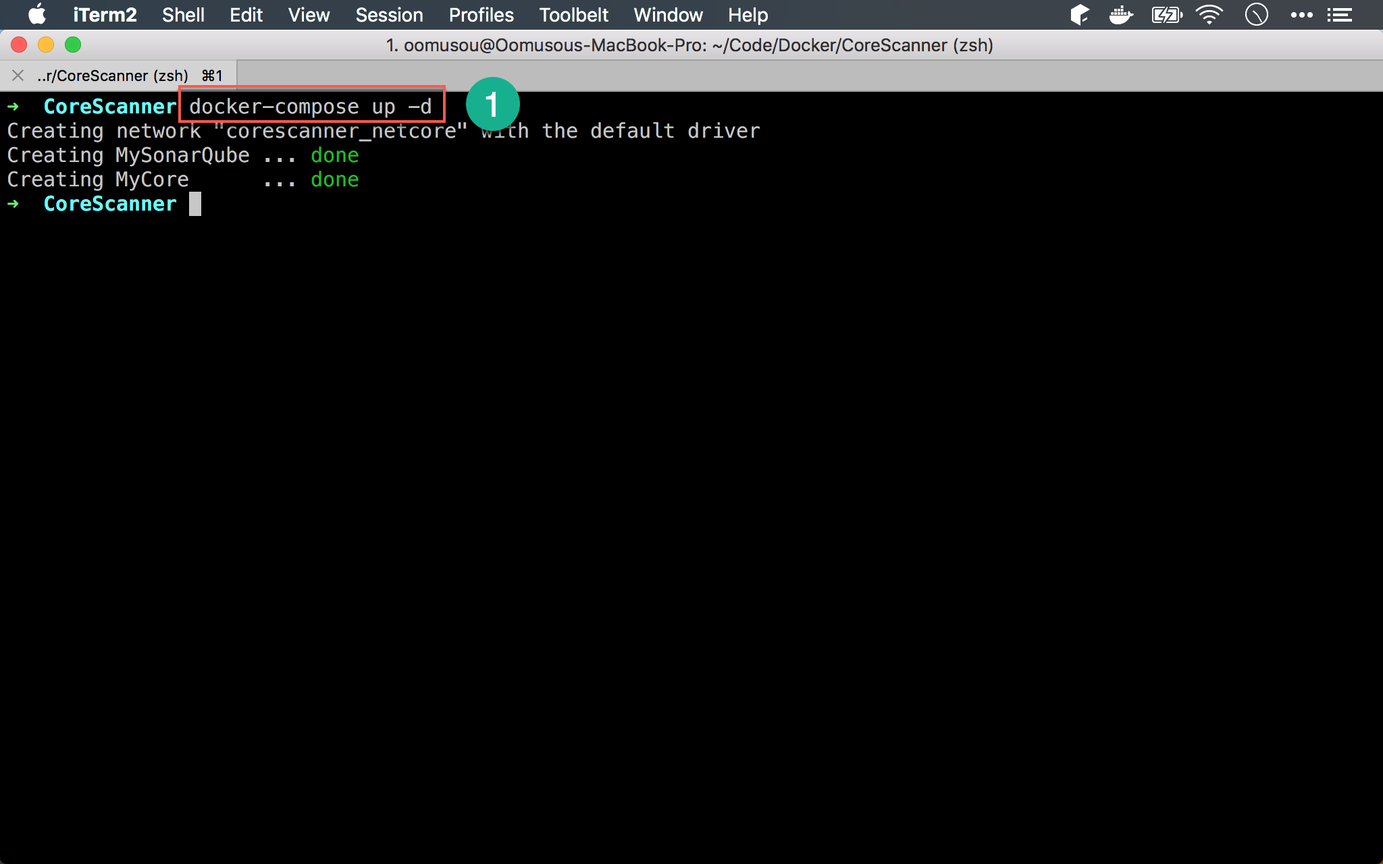
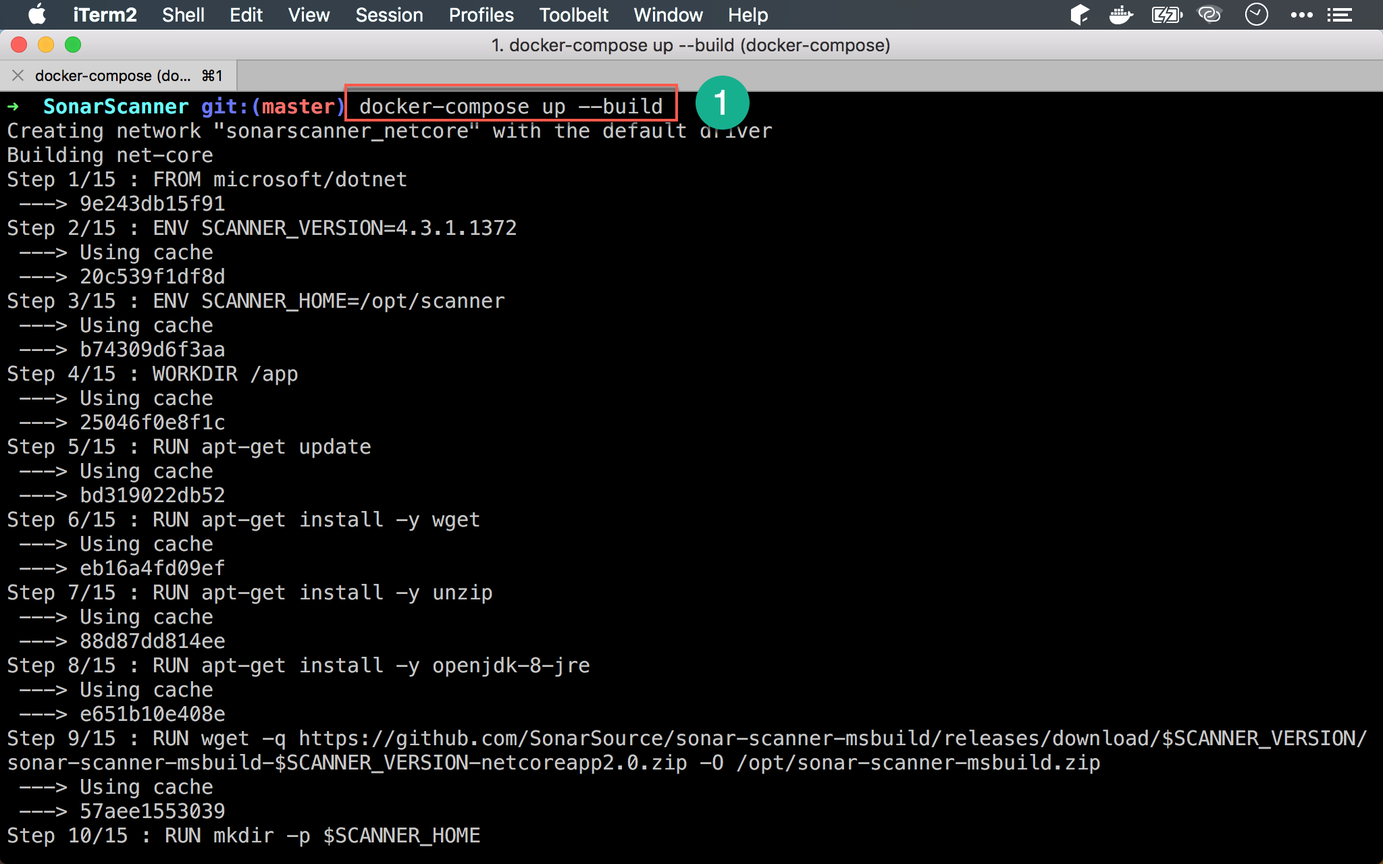
Site updated: 2018-08-01 13:18:26

diff --git a/sonarqube/netcore-docker/index.html b/sonarqube/netcore-docker/index.html
@@ -17,7 +17,7 @@
 <meta property="og:site_name" content="點燈坊">
 <meta property="og:description" content="完全使用 Docker 版本 SonarQube">
 <meta property="og:image" content="https://oomusou.io/images/feature/logo.png">
-<meta property="og:updated_time" content="2018-07-31T15:11:05.060Z">
+<meta property="og:updated_time" content="2018-08-01T05:16:23.885Z">
 <meta name="twitter:card" content="summary">
 <meta name="twitter:title" content="如何使用 SonarQube 檢查 .NET Core 專案 ? (Docker)">
 <meta name="twitter:description" content="完全使用 Docker 版本 SonarQube">
@@ -102,47 +102,56 @@
 	<!-- toc -->
 	<div id="postTOC">
 		<span class="tocHeading">Contents</span>
-		<ol class="toc-article"><li class="toc-article-item toc-article-level-2"><a class="toc-article-link" href="#Version"><span class="toc-article-text">Version</span></a></li><li class="toc-article-item toc-article-level-2"><a class="toc-article-link" href="#Dockerfile"><span class="toc-article-text">Dockerfile</span></a></li><li class="toc-article-item toc-article-level-2"><a class="toc-article-link" href="#Docker-compose-yml"><span class="toc-article-text">Docker-compose.yml</span></a></li><li class="toc-article-item toc-article-level-2"><a class="toc-article-link" href="#-env"><span class="toc-article-text">.env</span></a></li><li class="toc-article-item toc-article-level-2"><a class="toc-article-link" href="#啟動_Container"><span class="toc-article-text">啟動 Container</span></a></li><li class="toc-article-item toc-article-level-2"><a class="toc-article-link" href="#SonarScanner_檢查"><span class="toc-article-text">SonarScanner 檢查</span></a></li><li class="toc-article-item toc-article-level-2"><a class="toc-article-link" href="#結束_Container"><span class="toc-article-text">結束 Container</span></a></li><li class="toc-article-item toc-article-level-2"><a class="toc-article-link" href="#Conclusion"><span class="toc-article-text">Conclusion</span></a></li><li class="toc-article-item toc-article-level-2"><a class="toc-article-link" href="#Sample_Code"><span class="toc-article-text">Sample Code</span></a></li></ol>
+		<ol class="toc-article"><li class="toc-article-item toc-article-level-2"><a class="toc-article-link" href="#Version"><span class="toc-article-text">Version</span></a></li><li class="toc-article-item toc-article-level-2"><a class="toc-article-link" href="#Dockerfile"><span class="toc-article-text">Dockerfile</span></a></li><li class="toc-article-item toc-article-level-2"><a class="toc-article-link" href="#Docker-compose-yml"><span class="toc-article-text">Docker-compose.yml</span></a></li><li class="toc-article-item toc-article-level-2"><a class="toc-article-link" href="#-env"><span class="toc-article-text">.env</span></a></li><li class="toc-article-item toc-article-level-2"><a class="toc-article-link" href="#scanner-sh"><span class="toc-article-text">scanner.sh</span></a></li><li class="toc-article-item toc-article-level-2"><a class="toc-article-link" href="#執行_SonarScanner"><span class="toc-article-text">執行 SonarScanner</span></a></li><li class="toc-article-item toc-article-level-2"><a class="toc-article-link" href="#結束_Container"><span class="toc-article-text">結束 Container</span></a></li><li class="toc-article-item toc-article-level-2"><a class="toc-article-link" href="#Conclusion"><span class="toc-article-text">Conclusion</span></a></li><li class="toc-article-item toc-article-level-2"><a class="toc-article-link" href="#Sample_Code"><span class="toc-article-text">Sample Code</span></a></li></ol>
     </div>
 
 	<!-- content -->
 	<div class="mypage">		
 	    <p>SonarQube 是一套 <code>程式碼品質檢查工具</code>，可以幫我們檢查 C# 的 bugs、 vulenrability、code smell 與 duplication。</p>
-<p>本文使用 Docker-compose.yml，同時啟動 .NET Core 與 SonarQube 兩個 container 對 .NET 專案進行檢查。</p>
+<p>本文使用 Docker-compose.yml，並搭配 Rider 同時啟動 .NET Core 與 SonarQube 兩個 container  ，自動化對 .NET 專案進行檢查。</p>
 <a id="more"></a>
 <h2 id="Version">Version</h2><hr>
-<p>macOS High Sierra 10.13.6<br>Docker for Mac 18.06.0-ce-mac70 (26399)<br>.NET Core 2.1<br>SonarQube 7.1<br>SonarScanner 4.3.1.1372</p>
+<p>macOS High Sierra 10.13.6<br>Docker for Mac 18.06.0-ce-mac70 (26399)<br>.NET Core 2.1<br>SonarQube 7.1<br>SonarScanner 4.3.1.1372<br>Rider 2018.1.3</p>
 <h2 id="Dockerfile">Dockerfile</h2><hr>
-<figure class="highlight dockerfile"><table><tr><td class="gutter"><pre><span class="line">1</span><br><span class="line">2</span><br><span class="line">3</span><br><span class="line">4</span><br><span class="line">5</span><br><span class="line">6</span><br><span class="line">7</span><br><span class="line">8</span><br><span class="line">9</span><br><span class="line">10</span><br><span class="line">11</span><br><span class="line">12</span><br><span class="line">13</span><br><span class="line">14</span><br></pre></td><td class="code"><pre><span class="line"><span class="built_in">FROM</span> microsoft/dotnet</span><br><span class="line"></span><br><span class="line"><span class="built_in">ENV</span> SCANNER_VERSION=<span class="number">4.3</span>.<span class="number">1.1372</span></span><br><span class="line"><span class="built_in">ENV</span> SCANNER_HOME=/opt/scanner</span><br><span class="line"></span><br><span class="line"><span class="built_in">RUN</span> <span class="bash">apt-get update </span><br><span class="line"></span><span class="built_in">RUN</span> <span class="bash">apt-get install -y wget</span><br><span class="line"></span><span class="built_in">RUN</span> <span class="bash">apt-get install -y unzip</span><br><span class="line"></span><span class="built_in">RUN</span> <span class="bash">apt-get install -y openjdk-<span class="number">8</span>-jre</span><br><span class="line"></span><span class="built_in">RUN</span> <span class="bash">wget -q https://github.com/SonarSource/sonar-scanner-msbuild/releases/download/<span class="variable">$SCANNER_VERSION</span>/sonar-scanner-msbuild-<span class="variable">$SCANNER_VERSION</span>-netcoreapp2.<span class="number">0</span>.zip -O /opt/sonar-scanner-msbuild.zip</span><br><span class="line"></span><span class="built_in">RUN</span> <span class="bash">mkdir -p <span class="variable">$SCANNER_HOME</span></span><br><span class="line"></span><span class="built_in">RUN</span> <span class="bash">unzip /opt/sonar-scanner-msbuild.zip <span class="operator">-d</span> <span class="variable">$SCANNER_HOME</span></span><br><span class="line"></span><span class="built_in">RUN</span> <span class="bash">rm /opt/sonar-scanner-msbuild.zip</span><br><span class="line"></span><span class="built_in">RUN</span> <span class="bash">chmod <span class="number">775</span> <span class="variable">$SCANNER_HOME</span>/ -R</span></span><br></pre></td></tr></table></figure>
+<figure class="highlight dockerfile"><table><tr><td class="gutter"><pre><span class="line">1</span><br><span class="line">2</span><br><span class="line">3</span><br><span class="line">4</span><br><span class="line">5</span><br><span class="line">6</span><br><span class="line">7</span><br><span class="line">8</span><br><span class="line">9</span><br><span class="line">10</span><br><span class="line">11</span><br><span class="line">12</span><br><span class="line">13</span><br><span class="line">14</span><br><span class="line">15</span><br><span class="line">16</span><br><span class="line">17</span><br><span class="line">18</span><br><span class="line">19</span><br></pre></td><td class="code"><pre><span class="line"><span class="built_in">FROM</span> microsoft/dotnet</span><br><span class="line"></span><br><span class="line"><span class="built_in">ENV</span> SCANNER_VERSION=<span class="number">4.3</span>.<span class="number">1.1372</span></span><br><span class="line"><span class="built_in">ENV</span> SCANNER_HOME=/opt/scanner</span><br><span class="line"></span><br><span class="line"><span class="built_in">WORKDIR</span> <span class="bash">/app</span><br><span class="line"></span></span><br><span class="line"><span class="built_in">RUN</span> <span class="bash">apt-get update </span><br><span class="line"></span><span class="built_in">RUN</span> <span class="bash">apt-get install -y wget</span><br><span class="line"></span><span class="built_in">RUN</span> <span class="bash">apt-get install -y unzip</span><br><span class="line"></span><span class="built_in">RUN</span> <span class="bash">apt-get install -y openjdk-<span class="number">8</span>-jre</span><br><span class="line"></span><span class="built_in">RUN</span> <span class="bash">wget -q https://github.com/SonarSource/sonar-scanner-msbuild/releases/download/<span class="variable">$SCANNER_VERSION</span>/sonar-scanner-msbuild-<span class="variable">$SCANNER_VERSION</span>-netcoreapp2.<span class="number">0</span>.zip -O /opt/sonar-scanner-msbuild.zip</span><br><span class="line"></span><span class="built_in">RUN</span> <span class="bash">mkdir -p <span class="variable">$SCANNER_HOME</span></span><br><span class="line"></span><span class="built_in">RUN</span> <span class="bash">unzip /opt/sonar-scanner-msbuild.zip <span class="operator">-d</span> <span class="variable">$SCANNER_HOME</span></span><br><span class="line"></span><span class="built_in">RUN</span> <span class="bash">rm /opt/sonar-scanner-msbuild.zip</span><br><span class="line"></span><span class="built_in">RUN</span> <span class="bash">chmod <span class="number">775</span> <span class="variable">$SCANNER_HOME</span>/ -R</span><br><span class="line"></span></span><br><span class="line"><span class="built_in">COPY</span> <span class="bash">./ ./</span><br><span class="line"></span><span class="built_in">ENTRYPOINT</span> <span class="bash">[<span class="string">"./scanner.sh"</span>]</span></span><br></pre></td></tr></table></figure>
 <p>因為要在 .NET Core container 安裝 SonarScanner，所以要對 .NET Core 客製化 image。</p>
 <p>第 1 行</p>
-<figure class="highlight csharp"><table><tr><td class="gutter"><pre><span class="line">1</span><br></pre></td><td class="code"><pre><span class="line">FROM microsoft/dotnet</span><br></pre></td></tr></table></figure>
+<figure class="highlight dockerfile"><table><tr><td class="gutter"><pre><span class="line">1</span><br></pre></td><td class="code"><pre><span class="line"><span class="built_in">FROM</span> microsoft/dotnet</span><br></pre></td></tr></table></figure>
 <p>使用 <code>FROM</code> 設定所使用的基底 image。</p>
 <p>使用 Microsoft 官方的 <code>microsoft/dotnet</code> image。</p>
 <p>第 3 行</p>
-<figure class="highlight csharp"><table><tr><td class="gutter"><pre><span class="line">1</span><br><span class="line">2</span><br></pre></td><td class="code"><pre><span class="line">ENV SCANNER_VERSION=<span class="number">4.3</span><span class="number">.1</span><span class="number">.1372</span></span><br><span class="line">ENV SCANNER_HOME=/opt/scanner</span><br></pre></td></tr></table></figure>
+<figure class="highlight dockerfile"><table><tr><td class="gutter"><pre><span class="line">1</span><br><span class="line">2</span><br></pre></td><td class="code"><pre><span class="line"><span class="built_in">ENV</span> SCANNER_VERSION=<span class="number">4.3</span>.<span class="number">1.1372</span></span><br><span class="line"><span class="built_in">ENV</span> SCANNER_HOME=/opt/scanner</span><br></pre></td></tr></table></figure>
 <p>使用 <code>ENV</code> 設定 Dockerfile 的環境變數。</p>
 <p><code>SCANNER_VERSION</code> : 因為 SonarScanner 的下載路徑，會與版本有關，所以特別設定成變數。</p>
 <p><code>SCANNER_HOME</code> : 設定 SonarScanner 所安裝的目錄。</p>
 <p>第 6 行</p>
-<figure class="highlight csharp"><table><tr><td class="gutter"><pre><span class="line">1</span><br><span class="line">2</span><br><span class="line">3</span><br><span class="line">4</span><br></pre></td><td class="code"><pre><span class="line">RUN apt-<span class="keyword">get</span> update </span><br><span class="line">RUN apt-<span class="keyword">get</span> install -y wget</span><br><span class="line">RUN apt-<span class="keyword">get</span> install -y unzip</span><br><span class="line">RUN apt-<span class="keyword">get</span> install -y openjdk-<span class="number">8</span>-jre</span><br></pre></td></tr></table></figure>
+<figure class="highlight dockerfile"><table><tr><td class="gutter"><pre><span class="line">1</span><br></pre></td><td class="code"><pre><span class="line"><span class="built_in">WORKDIR</span> <span class="bash">/app</span></span><br></pre></td></tr></table></figure>
+<p>設定 container 的工作目錄，也就是預設目錄都會在 <code>/app</code> 下。</p>
+<p>第 8 行</p>
+<figure class="highlight dockerfile"><table><tr><td class="gutter"><pre><span class="line">1</span><br><span class="line">2</span><br><span class="line">3</span><br><span class="line">4</span><br></pre></td><td class="code"><pre><span class="line"><span class="built_in">RUN</span> <span class="bash">apt-get update </span><br><span class="line"></span><span class="built_in">RUN</span> <span class="bash">apt-get install -y wget</span><br><span class="line"></span><span class="built_in">RUN</span> <span class="bash">apt-get install -y unzip</span><br><span class="line"></span><span class="built_in">RUN</span> <span class="bash">apt-get install -y openjdk-<span class="number">8</span>-jre</span></span><br></pre></td></tr></table></figure>
 <p>使用 <code>RUN</code> 執行 CLI 指令。</p>
 <ul>
 <li>使用 <code>wget</code> 下載 SonarScanner</li>
 <li>使用 <code>unzip</code> 對 zip 解壓縮</li>
 <li><code>SonarScanner</code> 會使用 Java 執行，需要安裝 Java Runtime</li>
 </ul>
-<p>第 10 行</p>
-<figure class="highlight csharp"><table><tr><td class="gutter"><pre><span class="line">1</span><br></pre></td><td class="code"><pre><span class="line">RUN wget -q https:<span class="comment">//github.com/SonarSource/sonar-scanner-msbuild/releases/download/$SCANNER_VERSION/sonar-scanner-msbuild-$SCANNER_VERSION-netcoreapp2.0.zip -O /opt/sonar-scanner-msbuild.zip</span></span><br></pre></td></tr></table></figure>
-<p>使用 <code>wget</code> 下載 SonarScanner 壓縮檔，並下載到 <code>/opt</code> 目錄下。</p>
-<p>11 行</p>
-<figure class="highlight csharp"><table><tr><td class="gutter"><pre><span class="line">1</span><br><span class="line">2</span><br><span class="line">3</span><br></pre></td><td class="code"><pre><span class="line">RUN mkdir -p $SCANNER_HOME</span><br><span class="line">RUN unzip /opt/sonar-scanner-msbuild.zip -d $SCANNER_HOME</span><br><span class="line">RUN rm /opt/sonar-scanner-msbuild.zip</span><br></pre></td></tr></table></figure>
-<p>建立 <code>/opt/scanner</code> 目錄，將 SonarScanner 壓縮檔解壓縮放到 <code>/opt/scanner</code> 目錄下，解壓縮完刪除 SonarScanner 壓縮檔。</p>
 <p>12 行</p>
-<figure class="highlight csharp"><table><tr><td class="gutter"><pre><span class="line">1</span><br></pre></td><td class="code"><pre><span class="line">RUN chmod <span class="number">775</span> $SCANNER_HOME/ -R</span><br></pre></td></tr></table></figure>
+<figure class="highlight dockerfile"><table><tr><td class="gutter"><pre><span class="line">1</span><br></pre></td><td class="code"><pre><span class="line"><span class="built_in">RUN</span> <span class="bash">wget -q https://github.com/SonarSource/sonar-scanner-msbuild/releases/download/<span class="variable">$SCANNER_VERSION</span>/sonar-scanner-msbuild-<span class="variable">$SCANNER_VERSION</span>-netcoreapp2.<span class="number">0</span>.zip -O /opt/sonar-scanner-msbuild.zip</span></span><br></pre></td></tr></table></figure>
+<p>使用 <code>wget</code> 下載 SonarScanner 壓縮檔，並下載到 <code>/opt</code> 目錄下。</p>
+<p>13 行</p>
+<figure class="highlight dockerfile"><table><tr><td class="gutter"><pre><span class="line">1</span><br><span class="line">2</span><br><span class="line">3</span><br></pre></td><td class="code"><pre><span class="line"><span class="built_in">RUN</span> <span class="bash">mkdir -p <span class="variable">$SCANNER_HOME</span></span><br><span class="line"></span><span class="built_in">RUN</span> <span class="bash">unzip /opt/sonar-scanner-msbuild.zip <span class="operator">-d</span> <span class="variable">$SCANNER_HOME</span></span><br><span class="line"></span><span class="built_in">RUN</span> <span class="bash">rm /opt/sonar-scanner-msbuild.zip</span></span><br></pre></td></tr></table></figure>
+<p>建立 <code>/opt/scanner</code> 目錄，將 SonarScanner 壓縮檔解壓縮放到 <code>/opt/scanner</code> 目錄下，解壓縮完刪除 SonarScanner 壓縮檔。</p>
+<p>16 行</p>
+<figure class="highlight dockerfile"><table><tr><td class="gutter"><pre><span class="line">1</span><br></pre></td><td class="code"><pre><span class="line"><span class="built_in">RUN</span> <span class="bash">chmod <span class="number">775</span> <span class="variable">$SCANNER_HOME</span>/ -R</span></span><br></pre></td></tr></table></figure>
 <p>將 SonarScanner 目錄所有檔案賦予執行權力。</p>
+<p>18 行</p>
+<figure class="highlight dockerfile"><table><tr><td class="gutter"><pre><span class="line">1</span><br></pre></td><td class="code"><pre><span class="line"><span class="built_in">COPY</span> <span class="bash">./ ./</span></span><br></pre></td></tr></table></figure>
+<p>將目前 solution 下所有檔案複製到 container 內，也就是 <code>/app</code> 目錄下。</p>
+<p>19 行</p>
+<figure class="highlight dockerfile"><table><tr><td class="gutter"><pre><span class="line">1</span><br></pre></td><td class="code"><pre><span class="line"><span class="built_in">ENTRYPOINT</span> <span class="bash">[<span class="string">"./scanner.sh"</span>]</span></span><br></pre></td></tr></table></figure>
+<p>最後會執行專案目錄下的 <code>./scanner.sh</code>，負責執行 SonarScanner 檢查。</p>
 <h2 id="Docker-compose-yml">Docker-compose.yml</h2><hr>
-<figure class="highlight"><table><tr><td class="gutter"><pre><span class="line">1</span><br></pre></td><td class="code"><pre><span class="line">version: &#34;3&#34;&#10;&#10;services:&#10;  net-core:&#10;    build: .&#10;    container_name: MyCore&#10;    volumes:&#10;      - &#34;$&#123;HOST_DIR&#125;:/code/&#34;&#10;    tty: true&#10;    networks:&#10;      - netcore&#10;&#10;  sonarqube:&#10;    image: sonarqube:latest&#10;    container_name: MySonarQube&#10;    ports:&#10;      - 9000:9000&#10;      - 9002:9002&#10;    networks:&#10;      netcore:&#10;        ipv4_address: 172.16.238.10&#10;     &#10;networks:&#10;  netcore:&#10;    ipam: &#10;      driver: default&#10;      config:&#10;        - subnet: 172.16.238.0/24</span><br></pre></td></tr></table></figure>
+<figure class="highlight"><table><tr><td class="gutter"><pre><span class="line">1</span><br></pre></td><td class="code"><pre><span class="line">version: &#34;3&#34;&#10;&#10;services:&#10;  net-core:&#10;    build: .&#10;    container_name: MyCore&#10;    volumes:&#10;      - &#34;$&#123;HOST_DIR&#125;:/code/&#34;&#10;    networks:&#10;      - netcore&#10;    depends_on:&#10;      - sonarqube&#10;&#10;  sonarqube:&#10;    image: sonarqube:latest&#10;    container_name: MySonarQube&#10;    ports:&#10;      - 9000:9000&#10;      - 9002:9002&#10;    networks:&#10;      netcore:&#10;        ipv4_address: 172.16.238.10&#10;     &#10;networks:&#10;  netcore:&#10;    ipam: &#10;      driver: default&#10;      config:&#10;        - subnet: 172.16.238.0/24</span><br></pre></td></tr></table></figure>
 <p>設定 .NET Core 與 SonarQube 兩個 container 同時啟動。</p>
 <p>第 4 行</p>
 <figure class="highlight"><table><tr><td class="gutter"><pre><span class="line">1</span><br></pre></td><td class="code"><pre><span class="line">net-core:&#10;    build: .</span><br></pre></td></tr></table></figure>
@@ -155,41 +164,43 @@
 <p>使用 <code>volumes</code> 設定 host 與 container 的共用目錄，<code>:</code> 左方為 host 目錄，右方為 container 目錄。</p>
 <p>目的是能在 .NET Core container 內抓到 host 的 project。</p>
 <p>第 9 行</p>
-<figure class="highlight"><table><tr><td class="gutter"><pre><span class="line">1</span><br></pre></td><td class="code"><pre><span class="line">tty: true</span><br></pre></td></tr></table></figure>
-<p>使用 <code>tty</code> 讓 .NET Core container 在啟動後不會立即結束，可以維持在背景。</p>
-<p>第 10 行</p>
 <figure class="highlight"><table><tr><td class="gutter"><pre><span class="line">1</span><br></pre></td><td class="code"><pre><span class="line">networks:&#10;  - netcore</span><br></pre></td></tr></table></figure>
 <p>使用 <code>networks</code> 設定 .NET Core 與 SonarQube 共用 <code>netcore</code> 內部網路。</p>
-<p>13 行</p>
+<p>11 行</p>
+<figure class="highlight"><table><tr><td class="gutter"><pre><span class="line">1</span><br></pre></td><td class="code"><pre><span class="line">depends_on:&#10;      - sonarqube</span><br></pre></td></tr></table></figure>
+<p>.NET Core container 相依於 SonarQube container。</p>
+<p>14 行</p>
 <figure class="highlight"><table><tr><td class="gutter"><pre><span class="line">1</span><br></pre></td><td class="code"><pre><span class="line">sonarqube:&#10;  image: sonarqube:latest</span><br></pre></td></tr></table></figure>
 <p>使用 <code>image</code> 設定 container 所使用的 image。</p>
-<p>15 行</p>
+<p>16 行</p>
 <figure class="highlight"><table><tr><td class="gutter"><pre><span class="line">1</span><br></pre></td><td class="code"><pre><span class="line">container_name: MySonarQube</span><br></pre></td></tr></table></figure>
 <p>使用 <code>container_name</code> 設定 SonarQube 的 container 名稱。</p>
-<p>16 行</p>
+<p>17 行</p>
 <figure class="highlight"><table><tr><td class="gutter"><pre><span class="line">1</span><br></pre></td><td class="code"><pre><span class="line">ports:&#10;  - 9000:9000&#10;  - 9002:9002</span><br></pre></td></tr></table></figure>
 <p>使用 <code>ports</code> 設定 host 與 container 所 mapping 的 port，<code>:</code> 左側為 host port，右側為 container port。</p>
 <p>為了能在 host 以瀏覽器連上 SonarQube，要將 host 的 9000 與 9002 兩個 port 給 host。</p>
-<p>19 行</p>
+<p>20 行</p>
 <figure class="highlight"><table><tr><td class="gutter"><pre><span class="line">1</span><br></pre></td><td class="code"><pre><span class="line">networks:&#10;  netcore:&#10;    ipv4_address: 172.16.238.10</span><br></pre></td></tr></table></figure>
 <p>使用 <code>network</code> 設定使用 <code>netcore</code> 網路，並設定其 IP 為 <code>172.16.238.10</code>。</p>
 <blockquote>
 <p>一般來說，我們不必為 container 設定固定 IP，只要使用 container 名稱就可彼此溝通，但稍後 SonarScanner 必須使用固定 IP 才能連上 SonarQube，所以在此特別要設定固定 IP</p>
 </blockquote>
-<p>23 行</p>
+<p>24 行</p>
 <figure class="highlight"><table><tr><td class="gutter"><pre><span class="line">1</span><br></pre></td><td class="code"><pre><span class="line">networks:&#10;  netcore:&#10;    ipam: &#10;      driver: default&#10;      config:&#10;        - subnet: 172.16.238.0/24</span><br></pre></td></tr></table></figure>
 <p>設定 <code>netcore</code> 網路。</p>
 <h2 id="-env">.env</h2><hr>
-<figure class="highlight armasm"><table><tr><td class="gutter"><pre><span class="line">1</span><br></pre></td><td class="code"><pre><span class="line"><span class="label">HOST_DIR</span>=~/<span class="preprocessor">Code</span>/CSharp</span><br></pre></td></tr></table></figure>
+<figure class="highlight"><table><tr><td class="gutter"><pre><span class="line">1</span><br></pre></td><td class="code"><pre><span class="line">HOST_DIR=~/Code/CSharp</span><br></pre></td></tr></table></figure>
 <p>將 <code>HOST_DIR</code> 以環境變數設定，為 host 與 .NET Core container 所共享的目錄。</p>
-<h2 id="啟動_Container">啟動 Container</h2><hr>
-<figure class="highlight bash"><table><tr><td class="gutter"><pre><span class="line">1</span><br></pre></td><td class="code"><pre><span class="line">CoreScanner $ docker-compose up <span class="operator">-d</span></span><br></pre></td></tr></table></figure>
-<p><img src="/images/sonarqube/netcore-docker/core000.png" alt="core000"></p>
-<h2 id="SonarScanner_檢查">SonarScanner 檢查</h2><hr>
-<p><strong>scanner.sh</strong></p>
-<figure class="highlight bash"><table><tr><td class="gutter"><pre><span class="line">1</span><br><span class="line">2</span><br><span class="line">3</span><br><span class="line">4</span><br></pre></td><td class="code"><pre><span class="line"><span class="shebang">#! /bin/bash</span></span><br><span class="line">dotnet /opt/scanner/SonarScanner.MSBuild.dll begin /k:core2 /n:Core2 /v:<span class="number">1.0</span> /d:sonar.login=admin /d:sonar.password=admin /d:sonar.host.url=<span class="string">"http://172.16.238.10:9000"</span></span><br><span class="line">dotnet build</span><br><span class="line">dotnet /opt/scanner/SonarScanner.MSBuild.dll end /d:sonar.login=admin /d:sonar.password=admin</span><br></pre></td></tr></table></figure>
+<h2 id="scanner-sh">scanner.sh</h2><hr>
+<figure class="highlight bash"><table><tr><td class="gutter"><pre><span class="line">1</span><br><span class="line">2</span><br><span class="line">3</span><br><span class="line">4</span><br><span class="line">5</span><br></pre></td><td class="code"><pre><span class="line"><span class="shebang">#! /bin/bash</span></span><br><span class="line">sleep <span class="number">30</span></span><br><span class="line">dotnet /opt/scanner/SonarScanner.MSBuild.dll begin /k:core2 /n:Core2 /v:<span class="number">1.0</span> /d:sonar.login=admin /d:sonar.password=admin /d:sonar.host.url=http://<span class="number">172.16</span>.<span class="number">238.10</span>:<span class="number">9000</span></span><br><span class="line">dotnet build</span><br><span class="line">dotnet /opt/scanner/SonarScanner.MSBuild.dll end /d:sonar.login=admin /d:sonar.password=admin</span><br></pre></td></tr></table></figure>
 <p>使用 SonarScanner 檢查 .NET Core 專案，<code>scanner.sh</code> 會放在專案根目錄。</p>
-<figure class="highlight sql"><table><tr><td class="gutter"><pre><span class="line">1</span><br></pre></td><td class="code"><pre><span class="line">dotnet /opt/scanner/SonarScanner.MSBuild.dll <span class="operator"><span class="keyword">begin</span> /<span class="keyword">k</span>:core2 /<span class="keyword">n</span>:Core2 /v:<span class="number">1.0</span> /<span class="keyword">d</span>:sonar.login=<span class="keyword">admin</span> /<span class="keyword">d</span>:sonar.<span class="keyword">password</span>=<span class="keyword">admin</span> /<span class="keyword">d</span>:sonar.host.<span class="keyword">url</span>=<span class="keyword">http</span>://<span class="number">172.16</span><span class="number">.238</span><span class="number">.10</span>:<span class="number">9000</span></span></span><br></pre></td></tr></table></figure>
+<p>第 2 行</p>
+<figure class="highlight bash"><table><tr><td class="gutter"><pre><span class="line">1</span><br></pre></td><td class="code"><pre><span class="line">sleep <span class="number">30</span></span><br></pre></td></tr></table></figure>
+<p>主要是要等 SonarQube 啟動完成，比較好的方式是使用 Health Check 明確得知 SonarQube 已經啟動完成。</p>
+<p>這裡暫時先 sleep 30 秒，等 SonarQube 先啟動，.NET Core 才開始執行 SonarScanner。</p>
+<p>這裡還有改善的空間，也可以自行調整 sleep 時間。</p>
+<p>第 3 行</p>
+<figure class="highlight bash"><table><tr><td class="gutter"><pre><span class="line">1</span><br></pre></td><td class="code"><pre><span class="line">dotnet /opt/scanner/SonarScanner.MSBuild.dll begin /k:core2 /n:Core2 /v:<span class="number">1.0</span> /d:sonar.login=admin /d:sonar.password=admin /d:sonar.host.url=http://<span class="number">172.16</span>.<span class="number">238.10</span>:<span class="number">9000</span></span><br></pre></td></tr></table></figure>
 <p>使用 <code>dotnet</code> 執行 <code>SonarScanner.MSBuild.dll</code>，一開始以 <code>begin</code> 開頭：</p>
 <ul>
 <li><strong>/k</strong> : SonarQube 對專案的 key，內部將以此 key 作為辨別，必須唯一</li>
@@ -199,35 +210,40 @@
 <li><strong>/d:sonar.password</strong> : 指定 SonarQube 密碼</li>
 <li><strong>/d:sonar.host.url</strong> : 指定 SonarQube server IP 與 port</li>
 </ul>
-<figure class="highlight nginx"><table><tr><td class="gutter"><pre><span class="line">1</span><br></pre></td><td class="code"><pre><span class="line"><span class="title">dotnet</span> build</span><br></pre></td></tr></table></figure>
+<p>第 4 行</p>
+<figure class="highlight bash"><table><tr><td class="gutter"><pre><span class="line">1</span><br></pre></td><td class="code"><pre><span class="line">dotnet build</span><br></pre></td></tr></table></figure>
 <p>使用 <code>dotnet build</code> 編譯專案。</p>
 <blockquote>
 <p>Script 語言不用編譯，可以直接使用 SonarQube Scanner 就可以檢查，但 C# 需要編譯，因此必須 dotnet build</p>
 </blockquote>
-<figure class="highlight sql"><table><tr><td class="gutter"><pre><span class="line">1</span><br></pre></td><td class="code"><pre><span class="line">dotnet /opt/scanner/SonarScanner.MSBuild.dll <span class="operator"><span class="keyword">end</span> /<span class="keyword">d</span>:sonar.login=<span class="keyword">admin</span> /<span class="keyword">d</span>:sonar.<span class="keyword">password</span>=<span class="keyword">admin</span></span></span><br></pre></td></tr></table></figure>
+<p>第 5 行</p>
+<figure class="highlight bash"><table><tr><td class="gutter"><pre><span class="line">1</span><br></pre></td><td class="code"><pre><span class="line">dotnet /opt/scanner/SonarScanner.MSBuild.dll end /d:sonar.login=admin /d:sonar.password=admin</span><br></pre></td></tr></table></figure>
 <p>最後需加上 <code>end</code>，scanner 正式將 <code>dotnet build</code> 檢查出的結果寫入 SonarQube project</p>
 <ul>
 <li>仍必須指定 SonarQube 的帳號密碼</li>
 </ul>
-<p><img src="/images/sonarqube/netcore-docker/core001.png" alt="core001"></p>
-<ol>
-<li>以  <code>docker exec -it MyCore bash</code> 進入 .NET Core container</li>
-<li>在專案目錄下執行 <code>./scanner.sh</code>，跑所有 SonarScanner 檢查</li>
-</ol>
+<h2 id="執行_SonarScanner">執行 SonarScanner</h2><hr>
+<figure class="highlight bash"><table><tr><td class="gutter"><pre><span class="line">1</span><br></pre></td><td class="code"><pre><span class="line">SonarScanner $ docker-compose up --build</span><br></pre></td></tr></table></figure>
+<p>啟動 .NET Core 與 SonarQube container，並且自動執行 SonarScanner。</p>
+<ul>
+<li><strong>–build</strong> : 重新建立 .NET Core 自訂 image，若有任何修改，將重新包進 image，確保 <code>docker-compose</code> 是最新的 image</li>
+</ul>
+<p><img src="/images/sonarqube/netcore-docker/core000.png" alt="core000"></p>
 <p><img src="/images/sonarqube/netcore-docker/core002.png" alt="core002"></p>
 <ol>
 <li>在 host 以 <code>http://localhost:9000</code> ，將可看到 SonarQube 的檢查結果</li>
 </ol>
 <h2 id="結束_Container">結束 Container</h2><hr>
-<figure class="highlight elixir"><table><tr><td class="gutter"><pre><span class="line">1</span><br></pre></td><td class="code"><pre><span class="line"><span class="variable">$ </span>docker-compose down</span><br></pre></td></tr></table></figure>
+<figure class="highlight bash"><table><tr><td class="gutter"><pre><span class="line">1</span><br></pre></td><td class="code"><pre><span class="line">$ docker-compose down</span><br></pre></td></tr></table></figure>
 <p><img src="/images/sonarqube/netcore-docker/core003.png" alt="core003"></p>
 <h2 id="Conclusion">Conclusion</h2><hr>
 <ul>
 <li>由於 SonarScanner 已經被包在 Dockerfile 內，host 就不用再安裝 SonarScanner</li>
 <li>沒有將 .NET Core 安裝在 SonarQube container 內，而是分別使用 .NET Core container 與 SonarQube container，符合 Microservice 精神</li>
+<li>只要執行 <code>docker-compose up --build</code>，SonarScanner 就會自動啟動進行檢查</li>
 </ul>
 <h2 id="Sample_Code">Sample Code</h2><hr>
-<p>完整的範例可以在我的 <a href="https://github.com/oomusou/sonarqube-docker" target="_blank" rel="external">GitHub</a> 與 <a href="https://github.com/oomusou/sonarscanner" target="_blank" rel="external">GitHub</a> 上找到</p>
+<p>完整的範例可以在我的 <a href="https://github.com/oomusou/sonarscanner" target="_blank" rel="external">GitHub</a> 上找到</p>
 	  
 	</div>
 

diff --git a/hexo/md-overview/index.html b/hexo/md-overview/index.html
@@ -133,7 +133,7 @@
 <span class="xml"><span class="tag">&lt;<span class="title">http:</span>//<span class="attribute">oomusou.io</span>&gt;</span></span>
 [<span class="link_label">My Blog</span>](<span class="link_url">http://oomusou.io</span>)
 [<span class="link_label">My Email</span>](<span class="link_url">oomusou@gmail.com</span>)
-</code></pre><p><a href="&#109;&#x61;&#105;&#108;&#x74;&#x6f;&#58;&#111;&#x6f;&#109;&#x75;&#x73;&#x6f;&#117;&#64;&#x67;&#109;&#x61;&#x69;&#108;&#x2e;&#99;&#x6f;&#109;">&#111;&#x6f;&#109;&#x75;&#x73;&#x6f;&#117;&#64;&#x67;&#109;&#x61;&#x69;&#108;&#x2e;&#99;&#x6f;&#109;</a><br><a href="http://oomusou.io">http://oomusou.io</a><br><a href="http://oomusou.io">My Blog</a><br><a href="oomusou@gmail.com">My Email</a></p>
+</code></pre><p><a href="&#x6d;&#97;&#x69;&#x6c;&#116;&#111;&#58;&#x6f;&#111;&#109;&#117;&#115;&#x6f;&#x75;&#64;&#x67;&#109;&#97;&#x69;&#x6c;&#x2e;&#99;&#111;&#109;">&#x6f;&#111;&#109;&#117;&#115;&#x6f;&#x75;&#64;&#x67;&#109;&#97;&#x69;&#x6c;&#x2e;&#99;&#111;&#109;</a><br><a href="http://oomusou.io">http://oomusou.io</a><br><a href="http://oomusou.io">My Blog</a><br><a href="oomusou@gmail.com">My Email</a></p>
 <h2 id="圖片">圖片</h2><hr>
 <pre><code>![<span class="link_label">step1</span>](<span class="link_url">/images/md000.png</span>)
 </code></pre><p><img src="/images/hexo/md-overview/md000.png" alt="step1"></p>

diff --git a/index.html b/index.html
@@ -152,7 +152,7 @@
   
   
 	<p>SonarQube 是一套 <code>程式碼品質檢查工具</code>，可以幫我們檢查 C# 的 bugs、 vulenrability、code smell 與 duplication。</p>
-<p>本文使用 Docker-compose.yml，同時啟動 .NET Core 與 SonarQube 兩個 container 對 .NET 專案進行檢查。</p>
+<p>本文使用 Docker-compose.yml，並搭配 Rider 同時啟動 .NET Core 與 SonarQube 兩個 container  ，自動化對 .NET 專案進行檢查。</p>
   	
     </div>
     <div class="col-md-10"></div>
